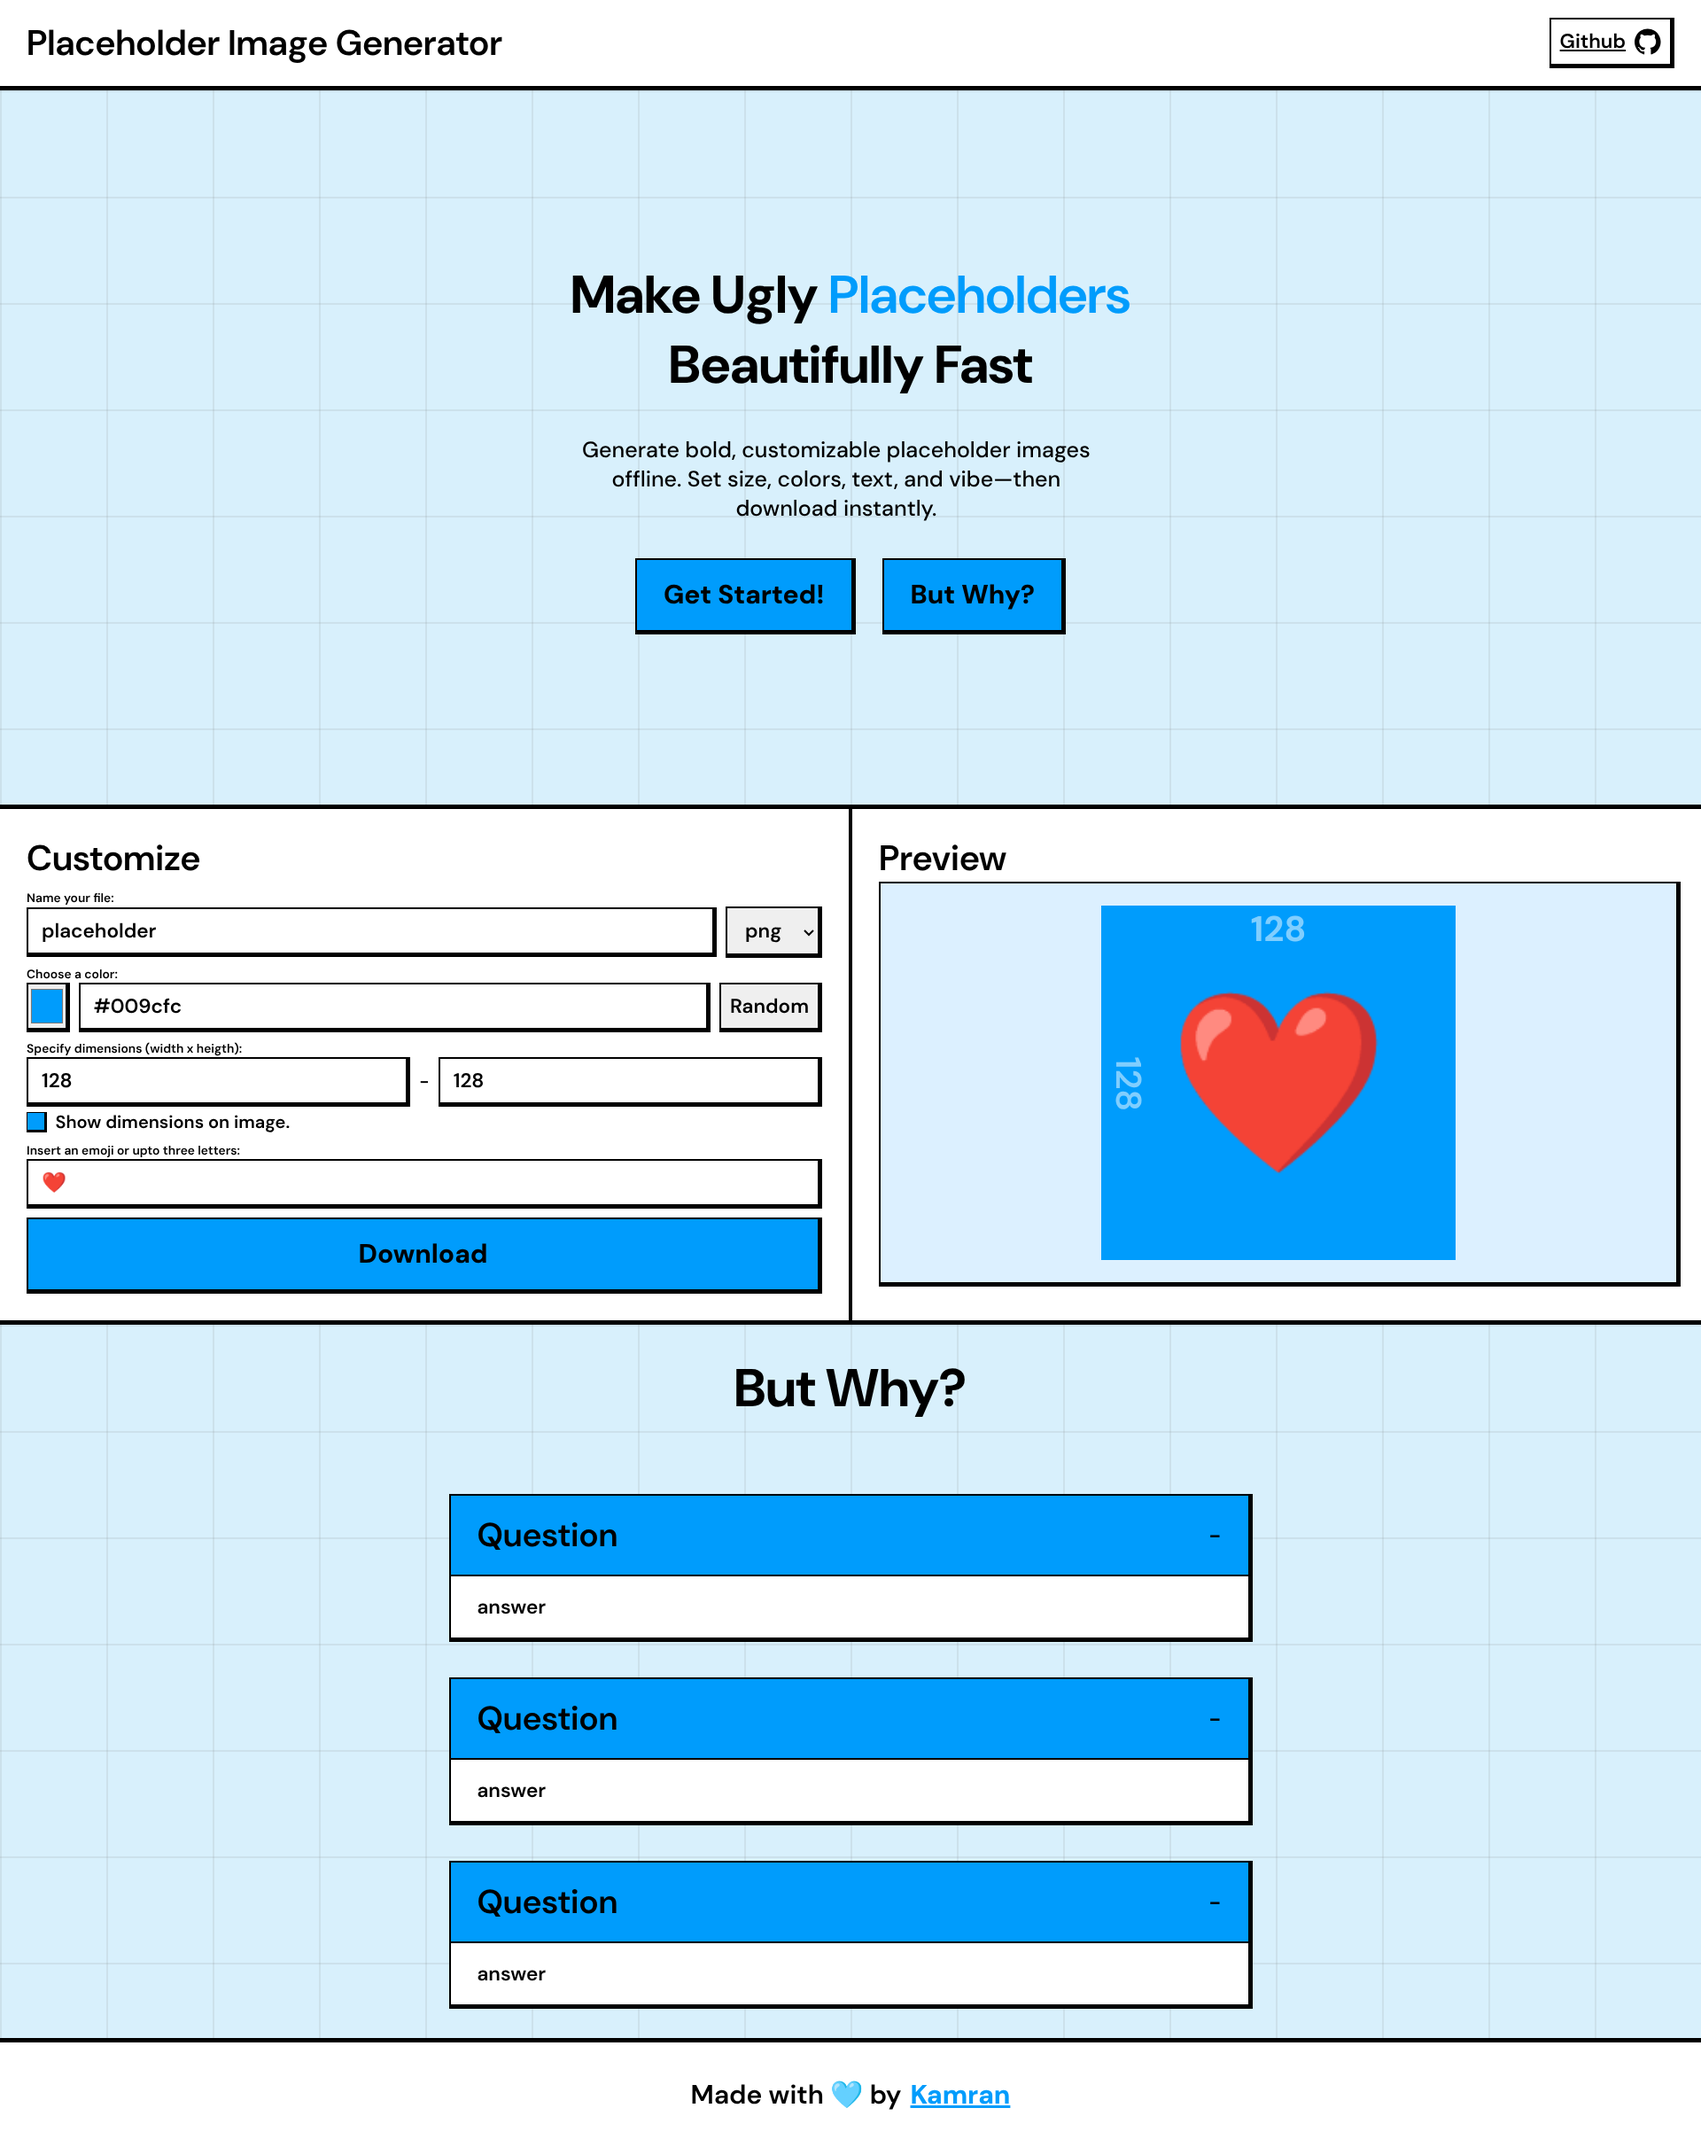
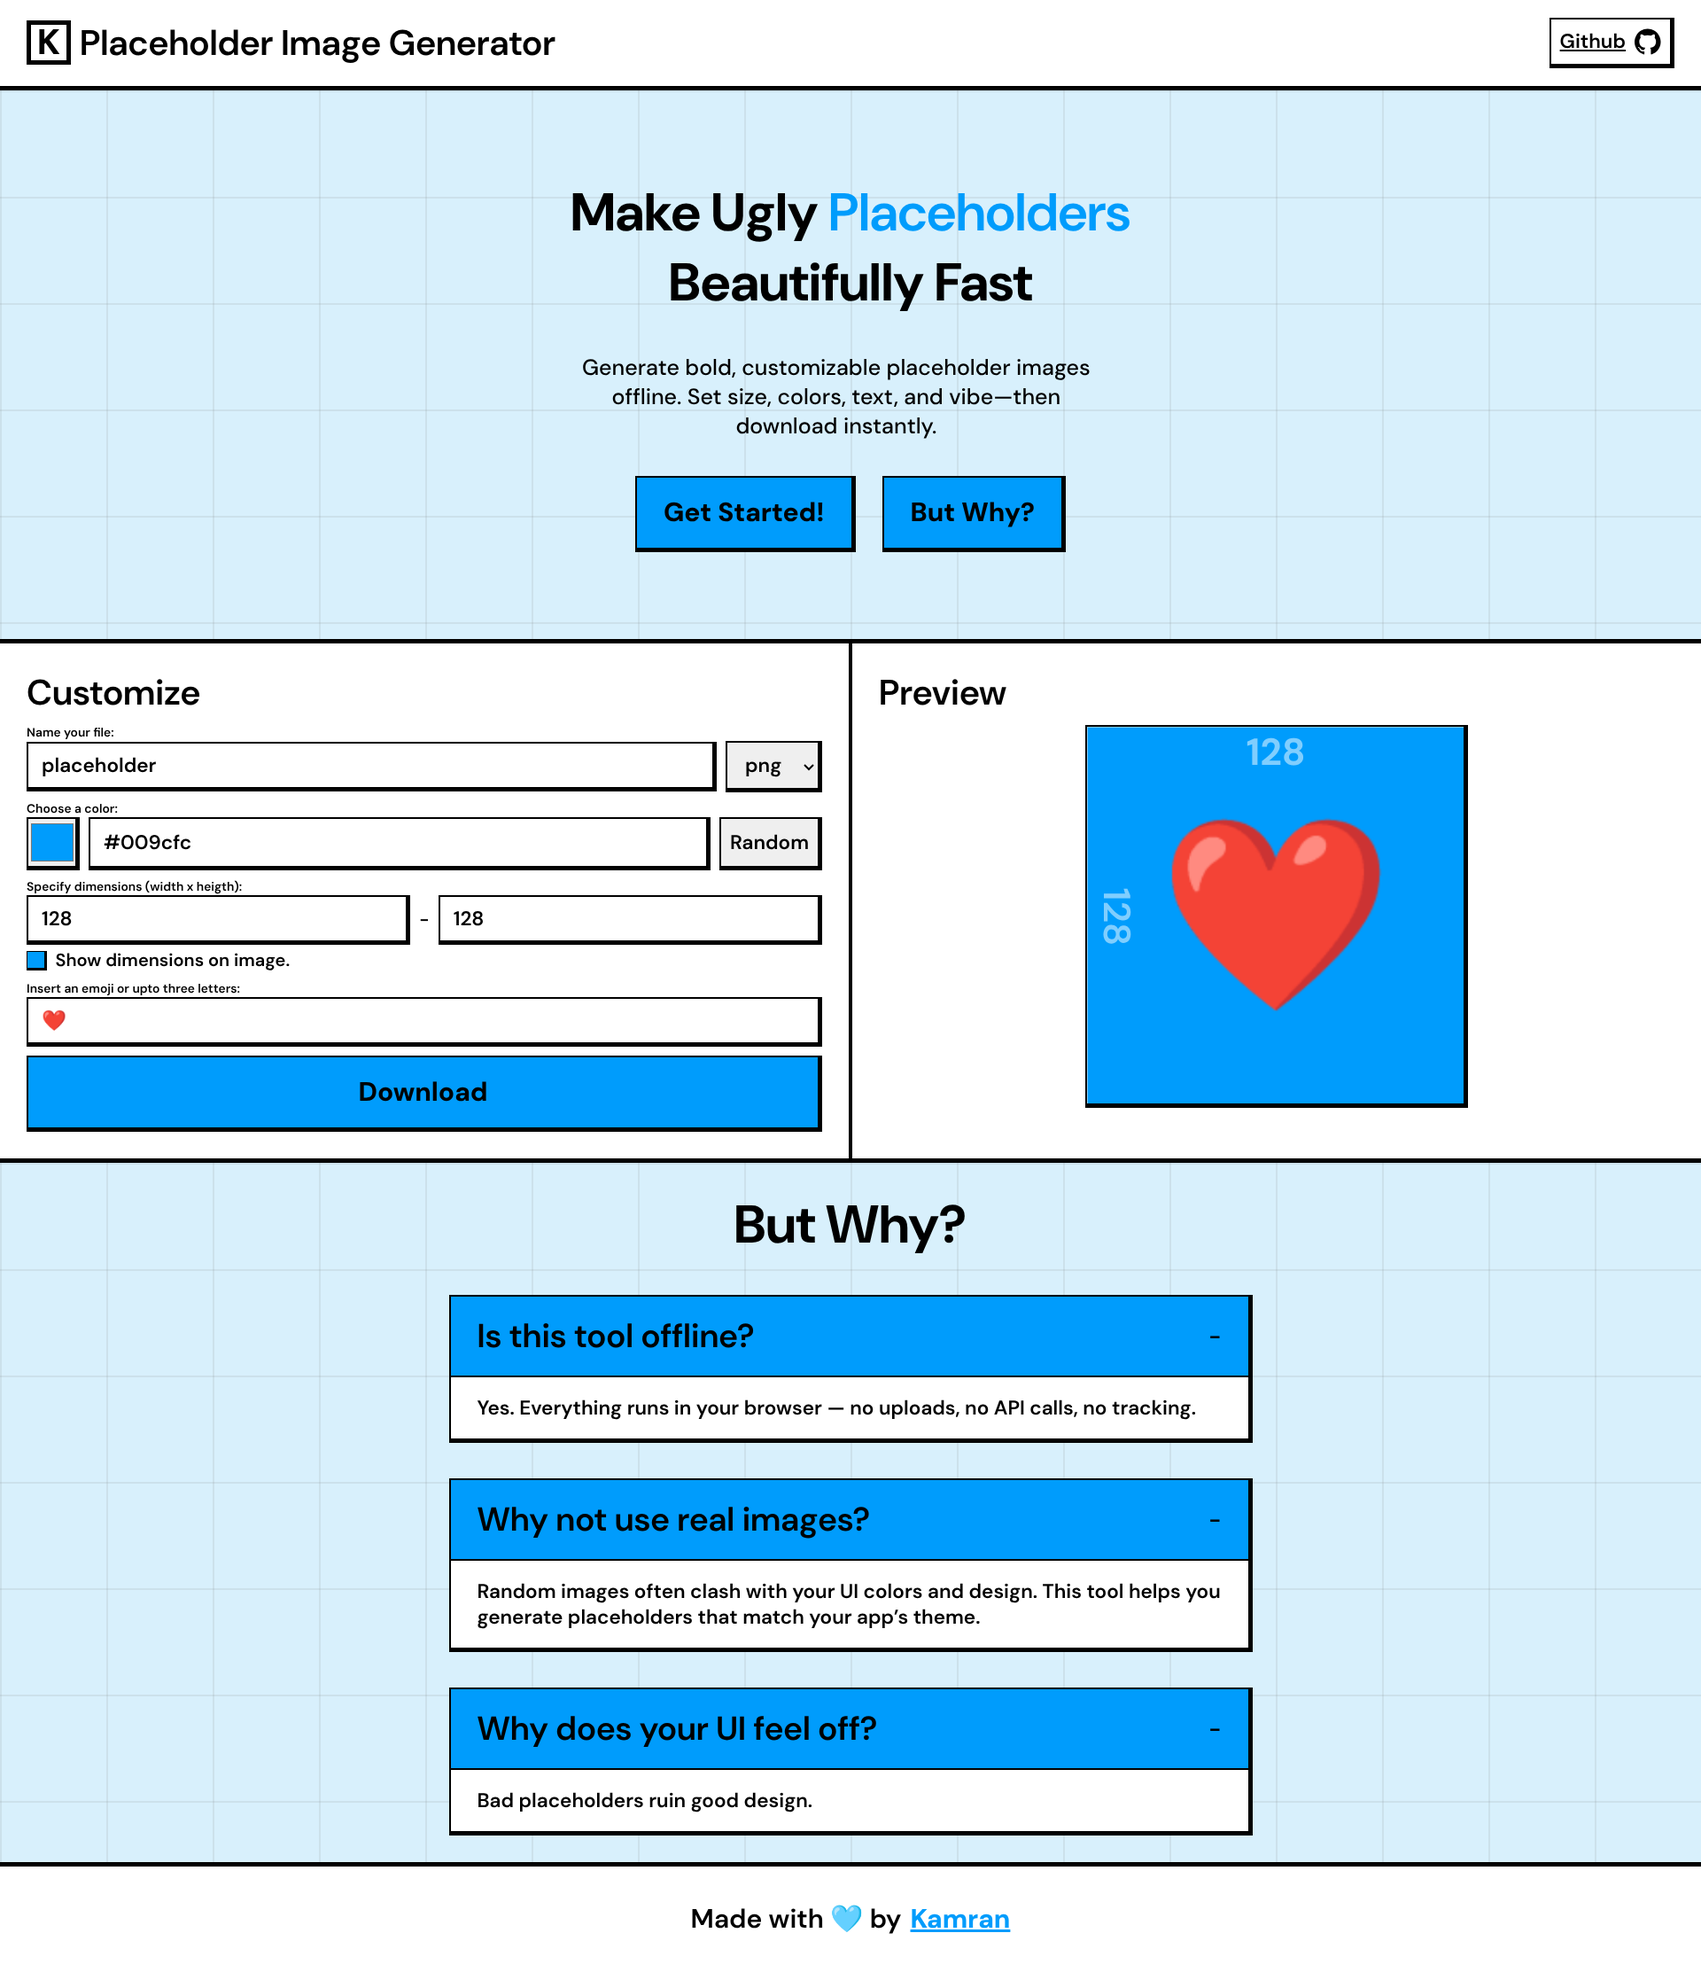
Update preview image and Preview background.

diff --git a/src/components/Preview/Preview.jsx b/src/components/Preview/Preview.jsx
@@ -1,7 +1,7 @@
 import Style from "./Preview.module.css"
 
 const Preview = ({ reference, color, width = 128, height = 128, emoji, showDimensions }) => {
-    const maxPreviewSize = 320
+    const maxPreviewSize = 340
     const scale = Math.min(maxPreviewSize / width, maxPreviewSize / height)
 
     // Pick smaller of width or height for emoji size
@@ -62,7 +62,6 @@ const Preview = ({ reference, color, width = 128, height = 128, emoji, showDimen
                     alignItems: "center",
                     justifyContent: "center",
                     overflow: "hidden",
-                    backgroundColor:"yellow"
                 }}
             >
                 {/* Inner scaling layer */}

diff --git a/src/components/Questions/Questions.module.css b/src/components/Questions/Questions.module.css
@@ -33,6 +33,7 @@
     font-weight: 800;
     font-size: 20px;
     background-color: #009cfc;
+    gap: 24px;
 }
 
 .answer {
@@ -54,5 +55,20 @@
 
     .answer {
         font-size: 14px;
+    }
+}
+
+@media only screen and (max-width: 380px) {
+
+    .question {
+        width: auto;
+    }
+
+    .header {
+        font-size: 13px;
+    }
+
+    .answer {
+        font-size: 12px;
     }
 }
